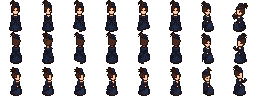
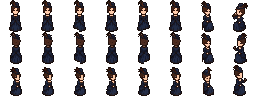
Fix noble lady idle frames that turned her head front/back
The second idle frame of the front and back rows showed a turned head,
so she seemed to flip between facing front and back while waiting.

Claude-Session: https://claude.ai/code/session_01GLddWFGhu19UdYDuzdKUFY

Changed region(s): [[0.1562, 0.0, 0.2188, 0.5], [0.1562, 0.5625, 0.2188, 0.625]]

diff --git a/index.html b/index.html
@@ -20,7 +20,7 @@
 <link rel="manifest" href="manifest.webmanifest">
 <link rel="apple-touch-icon" href="assets/apple-touch-icon.png">
 <title>스팀 &amp; 빈즈</title>
-<link rel="stylesheet" href="css/style.css?v=202610280226">
+<link rel="stylesheet" href="css/style.css?v=202610280332">
 
 <!-- Firebase SDK (CDN) -->
 <script src="https://www.gstatic.com/firebasejs/10.8.0/firebase-app-compat.js"></script>
@@ -87,23 +87,23 @@
 
 
 <!-- 기존 게임 엔진 스크립트 먼저 실행 -->
-<script src="assets/manifest.js?v=202610280226"></script>
-<script src="js/i18n_en.js?v=202610280226"></script>
-<script src="js/i18n.js?v=202610280226"></script>
-<script src="js/data.js?v=202610280226"></script>
-<script src="js/naple_atlas.js?v=202610280226"></script>
-<script src="js/sprites.js?v=202610280226"></script>
-<script src="js/game.js?v=202610280226"></script>
-<script src="js/town.js?v=202610280226"></script>
-<script src="js/render.js?v=202610280226"></script>
-<script src="js/audio.js?v=202610280226"></script>
-<script src="js/sfx.js?v=202610280226"></script>
-<script src="js/ui.js?v=202610280226"></script>
-<script src="js/tutorial.js?v=202610280226"></script>
-<script src="js/portal.js?v=202610280226"></script>
-<script src="js/main.js?v=202610280226"></script>
+<script src="assets/manifest.js?v=202610280332"></script>
+<script src="js/i18n_en.js?v=202610280332"></script>
+<script src="js/i18n.js?v=202610280332"></script>
+<script src="js/data.js?v=202610280332"></script>
+<script src="js/naple_atlas.js?v=202610280332"></script>
+<script src="js/sprites.js?v=202610280332"></script>
+<script src="js/game.js?v=202610280332"></script>
+<script src="js/town.js?v=202610280332"></script>
+<script src="js/render.js?v=202610280332"></script>
+<script src="js/audio.js?v=202610280332"></script>
+<script src="js/sfx.js?v=202610280332"></script>
+<script src="js/ui.js?v=202610280332"></script>
+<script src="js/tutorial.js?v=202610280332"></script>
+<script src="js/portal.js?v=202610280332"></script>
+<script src="js/main.js?v=202610280332"></script>
 
 <!-- 파이어베이스 초기화 스크립트는 게임 로드 후 맨 나중에 실행 -->
-<script src="js/firebase-init.js?v=202610280226"></script>
+<script src="js/firebase-init.js?v=202610280332"></script>
 </body>
 </html>

diff --git a/js/sprites.js b/js/sprites.js
@@ -1045,7 +1045,7 @@ const Sprites = {
       const img = new Image();
       img.onload = () => { this.chars[id] = img; res(); };
       img.onerror = () => { console.warn('캐릭터 시트 로드 실패:', id); res(); };
-      img.src = `assets/chars/${id}.png`;
+      img.src = `assets/chars/${id}.png?v=2`;
     })));
   },
   hasChar(id) { return !!this.chars[id]; },
